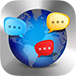
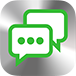
网页修改
chat享聊图片

diff --git a/content/cn/help/index.html b/content/cn/help/index.html
@@ -78,7 +78,7 @@ id: cn/help
           <div class="row">
             <div class="col-md-6 mt16">
               <h3>
-                  <img src="http://odoo.s3.amazonaws.com/3bb50b61-e243-11e3-a1cc-7cd1c3f1442d/1/7e/7ee4618d08414ac1c106b258809d701afad86b1a.png" style="display: block; margin-right: auto; margin-left: auto; margin-bottom: 13px; color: rgb(51, 51, 51); font-family: 'Lucida Grande', 'Lucida Sans Unicode', Helvetica, Arial, Verdana, sans-serif; font-size: 16px; line-height: 26.993249893188477px; word-spacing: -1px;" height="75" width="75" alt="" class="icon center"/>
+                  <img src="/website/img/chat/AppIcon76x76.png" style="display: block; margin-right: auto; margin-left: auto; margin-bottom: 13px; color: rgb(51, 51, 51); font-family: 'Lucida Grande', 'Lucida Sans Unicode', Helvetica, Arial, Verdana, sans-serif; font-size: 16px; line-height: 26.993249893188477px; word-spacing: -1px;" height="75" width="75" alt="" class="icon center"/>
               </h3>
               <h3 style="text-align: center;"><span class="s1"></span>享聊</h3>
               <p>享聊是全新的企业级协同沟通系统，你可以向一个人单独发送信息，或同时向许多好友群发信息 ，而且可附带你喜欢的照片、视频或链接。每个人的回复，大家都会看到。</p>
@@ -88,7 +88,7 @@ id: cn/help
               </p>
             </div>
             <div class="col-md-6 mt16">
-              <img src="http://odoo.s3.amazonaws.com/3bb50b61-e243-11e3-a1cc-7cd1c3f1442d/1/cd/cd8dc163b6af60c944487e51fad7bb37601ea8bc.png" class="img img-responsive mb16"/>
+              <img src="/website/img/chat/mac_chat.png" class="img img-responsive mb16"/>
             </div>
           </div>
         </div>

diff --git a/content/us/index.html b/content/us/index.html
@@ -85,7 +85,7 @@ id: us
           <div class="row">
             <div class="col-md-6 mt16">
               <h3><a href="/us/chat/">
-                  <img src="http://odoo.s3.amazonaws.com/3bb50b61-e243-11e3-a1cc-7cd1c3f1442d/1/7e/7ee4618d08414ac1c106b258809d701afad86b1a.png" style="display: block; margin-right: auto; margin-left: auto; margin-bottom: 13px; color: rgb(51, 51, 51); font-family: 'Lucida Grande', 'Lucida Sans Unicode', Helvetica, Arial, Verdana, sans-serif; font-size: 16px; line-height: 26.993249893188477px; word-spacing: -1px;" height="75" width="75" alt="" class="icon center"/></a>
+                  <img src="/website/img/chat/AppIcon76x76.png" style="display: block; margin-right: auto; margin-left: auto; margin-bottom: 13px; color: rgb(51, 51, 51); font-family: 'Lucida Grande', 'Lucida Sans Unicode', Helvetica, Arial, Verdana, sans-serif; font-size: 16px; line-height: 26.993249893188477px; word-spacing: -1px;" height="75" width="75" alt="" class="icon center"/></a>
               </h3>
               <h3 style="text-align: center;"><span class="s1"></span>oChat</h3>
               <h4>Share ideas, code, and files with your team in real time. Rooms are perfect for individual projects, teams, or entire departments. You can also start a 1-to-1 chat with a coworker anytime.</h4>
@@ -94,7 +94,7 @@ id: us
               </p>
             </div>
             <div class="col-md-6 mt16">
-              <img src="http://s3-ap-southeast-1.amazonaws.com/s3.steedos.com/public/images/website/chat.png" class="img img-responsive mb16"/>
+              <img src="/website/img/chat/mac_chat2.png" class="img img-responsive mb16"/>
             </div>
           </div>
         </div>

diff --git a/content/us/help/index.html b/content/us/help/index.html
@@ -77,7 +77,7 @@ id: us/help
           <div class="row">
             <div class="col-md-6 mt16">
               <h3>
-                  <img src="http://odoo.s3.amazonaws.com/3bb50b61-e243-11e3-a1cc-7cd1c3f1442d/1/7e/7ee4618d08414ac1c106b258809d701afad86b1a.png" style="display: block; margin-right: auto; margin-left: auto; margin-bottom: 13px; color: rgb(51, 51, 51); font-family: 'Lucida Grande', 'Lucida Sans Unicode', Helvetica, Arial, Verdana, sans-serif; font-size: 16px; line-height: 26.993249893188477px; word-spacing: -1px;" height="75" width="75" alt="" class="icon center"/>
+                  <img src="/website/img/chat/AppIcon76x76.png" style="display: block; margin-right: auto; margin-left: auto; margin-bottom: 13px; color: rgb(51, 51, 51); font-family: 'Lucida Grande', 'Lucida Sans Unicode', Helvetica, Arial, Verdana, sans-serif; font-size: 16px; line-height: 26.993249893188477px; word-spacing: -1px;" height="75" width="75" alt="" class="icon center"/>
               </h3>
               <h3 style="text-align: center;"><span class="s1"></span>oChat</h3>
               <p>Share ideas, code, and files with your team in real time. Rooms are perfect for individual projects, teams, or entire departments. You can also start a 1-to-1 chat with a coworker anytime.</p>
@@ -86,7 +86,7 @@ id: us/help
               </p>
             </div>
             <div class="col-md-6 mt16">
-              <img src="http://s3-ap-southeast-1.amazonaws.com/s3.steedos.com/public/images/website/chat.png" class="img img-responsive mb16"/>
+              <img src="/website/img/chat/mac_chat2.png" class="img img-responsive mb16"/>
             </div>
           </div>
         </div>

diff --git a/content/cn/chat/index.html b/content/cn/chat/index.html
@@ -15,7 +15,7 @@ id: cn/chat
               <div class="carousel-caption content">
                 <div>
                   <h2 style="text-align: center;">
-                    <img src="http://odoo.s3.amazonaws.com/3bb50b61-e243-11e3-a1cc-7cd1c3f1442d/1/7e/7ee4618d08414ac1c106b258809d701afad86b1a.png" style="display: block; margin-right: auto; margin-left: auto; margin-bottom: 13px; color: rgb(51, 51, 51); font-family: 'Lucida Grande', 'Lucida Sans Unicode', Helvetica, Arial, Verdana, sans-serif; font-size: 16px; line-height: 26.993249893188477px; word-spacing: -1px;" height="75" width="75" alt="" class="icon center"/>
+                    <img src="/website/img/chat/AppIcon76x76.png" style="display: block; margin-right: auto; margin-left: auto; margin-bottom: 13px; color: rgb(51, 51, 51); font-family: 'Lucida Grande', 'Lucida Sans Unicode', Helvetica, Arial, Verdana, sans-serif; font-size: 16px; line-height: 26.993249893188477px; word-spacing: -1px;" height="75" width="75" alt="" class="icon center"/>
                   </h2>
                   <h3 style="text-align: center;">
                     <span style="color:#FFFFFF;">享聊</span>
@@ -50,7 +50,7 @@ id: cn/chat
         <div class="container">
           <div class="row">
             <div class="col-md-12">
-              <img src="http://odoo.s3.amazonaws.com/3bb50b61-e243-11e3-a1cc-7cd1c3f1442d/1/cd/cd8dc163b6af60c944487e51fad7bb37601ea8bc.png" style="margin: 0px auto;" class="img img-responsive" width="600"/>
+              <img src="/website/img/chat/mac_chat.png" style="margin: 0px auto;" class="img img-responsive" width="600"/>
             </div>
           </div>
           <div class="row">

diff --git a/content/cn/index.html b/content/cn/index.html
@@ -102,7 +102,7 @@ id: cn
             <div class="col-md-6 mt16">
               
               <h3><a href="/cn/chat/">
-                <img src="http://odoo.s3.amazonaws.com/3bb50b61-e243-11e3-a1cc-7cd1c3f1442d/1/7e/7ee4618d08414ac1c106b258809d701afad86b1a.png" style="display: block; margin-right: auto; margin-left: auto; margin-bottom: 13px; color: rgb(51, 51, 51); font-family: 'Lucida Grande', 'Lucida Sans Unicode', Helvetica, Arial, Verdana, sans-serif; font-size: 16px; line-height: 26.993249893188477px; word-spacing: -1px;" height="75" width="75" alt="" class="icon center"/></a>
+                <img src="/website/img/chat/AppIcon76x76.png" style="display: block; margin-right: auto; margin-left: auto; margin-bottom: 13px; color: rgb(51, 51, 51); font-family: 'Lucida Grande', 'Lucida Sans Unicode', Helvetica, Arial, Verdana, sans-serif; font-size: 16px; line-height: 26.993249893188477px; word-spacing: -1px;" height="75" width="75" alt="" class="icon center"/></a>
               </h3>
               <h3 style="text-align: center;">即时通讯</h3>
               <p>享聊是全新的企业级协同沟通系统，你可以向一个人单独发送信息，或同时向许多好友群发信息 ，而且可附带你喜欢的照片、视频或链接。每个人的回复，大家都会看到。</p>

diff --git a/content/cn/steedos/index.html b/content/cn/steedos/index.html
@@ -88,7 +88,7 @@ id: cn/steedos
             <div class="col-md-6 mt16">
               <h3>
                 <a href="/cn/chat/">
-                  <img src="http://odoo.s3.amazonaws.com/3bb50b61-e243-11e3-a1cc-7cd1c3f1442d/1/7e/7ee4618d08414ac1c106b258809d701afad86b1a.png" style="display: block; margin-right: auto; margin-left: auto; margin-bottom: 13px; color: rgb(51, 51, 51); font-family: 'Lucida Grande', 'Lucida Sans Unicode', Helvetica, Arial, Verdana, sans-serif; font-size: 16px; line-height: 26.993249893188477px; word-spacing: -1px;" height="75" width="75" alt="" class="icon center"/>
+                  <img src="/website/img/chat/AppIcon76x76.png" style="display: block; margin-right: auto; margin-left: auto; margin-bottom: 13px; color: rgb(51, 51, 51); font-family: 'Lucida Grande', 'Lucida Sans Unicode', Helvetica, Arial, Verdana, sans-serif; font-size: 16px; line-height: 26.993249893188477px; word-spacing: -1px;" height="75" width="75" alt="" class="icon center"/>
                 </a>
               </h3>
               <h3 style="text-align: center;"><span class="s1"></span>享聊</h3>

diff --git a/content/us/chat/index.html b/content/us/chat/index.html
@@ -8,7 +8,7 @@ id: us/chat
   <!--<h1>Business Group chat and IM</h1>
 -->
   <div id="slow">
-    <center><img class="video" src="/website/img/chat/chat.png" width="100%"/></center>
+    <center><img class="video" src="/website/img/chat/chat2.png" width="100%"/></center>
   </div>
   <h2>Persistent Rooms and 1-to-1 Chat</h2>
   <p><span>Share ideas, code, and files with your team in real time. Rooms are perfect for individual projects, teams, or entire departments. You can also start a 1-to-1 chat with a coworker anytime. </span></p>

diff --git a/content/us/help/chat.html b/content/us/help/chat.html
@@ -8,7 +8,7 @@ id: us/help/chat
   <h1>SteedOS Chat</h1>
 
   <div id="slow">
-    <center><img class="video" src="/website/img/chat/chat.png" width="100%"/></center>
+    <center><img class="video" src="/website/img/chat/chat2.png" width="100%"/></center>
   </div>
 
     <h2>Persistent Rooms and 1-to-1 Chat</h2>

diff --git a/content/cn/help/chat.html b/content/cn/help/chat.html
@@ -8,7 +8,7 @@ id: cn/help/chat
   <h2>享聊</h2>
 
   <div id="slow">
-    <center><img class="video" src="/website/img/chat/chat-848.jpg" width="100%"/></center>
+    <center><img class="video" src="/website/img/chat/mac_chat.png" width="100%"/></center>
   </div>
 
     <h3>群组讨论和点对点讨论</h3>
